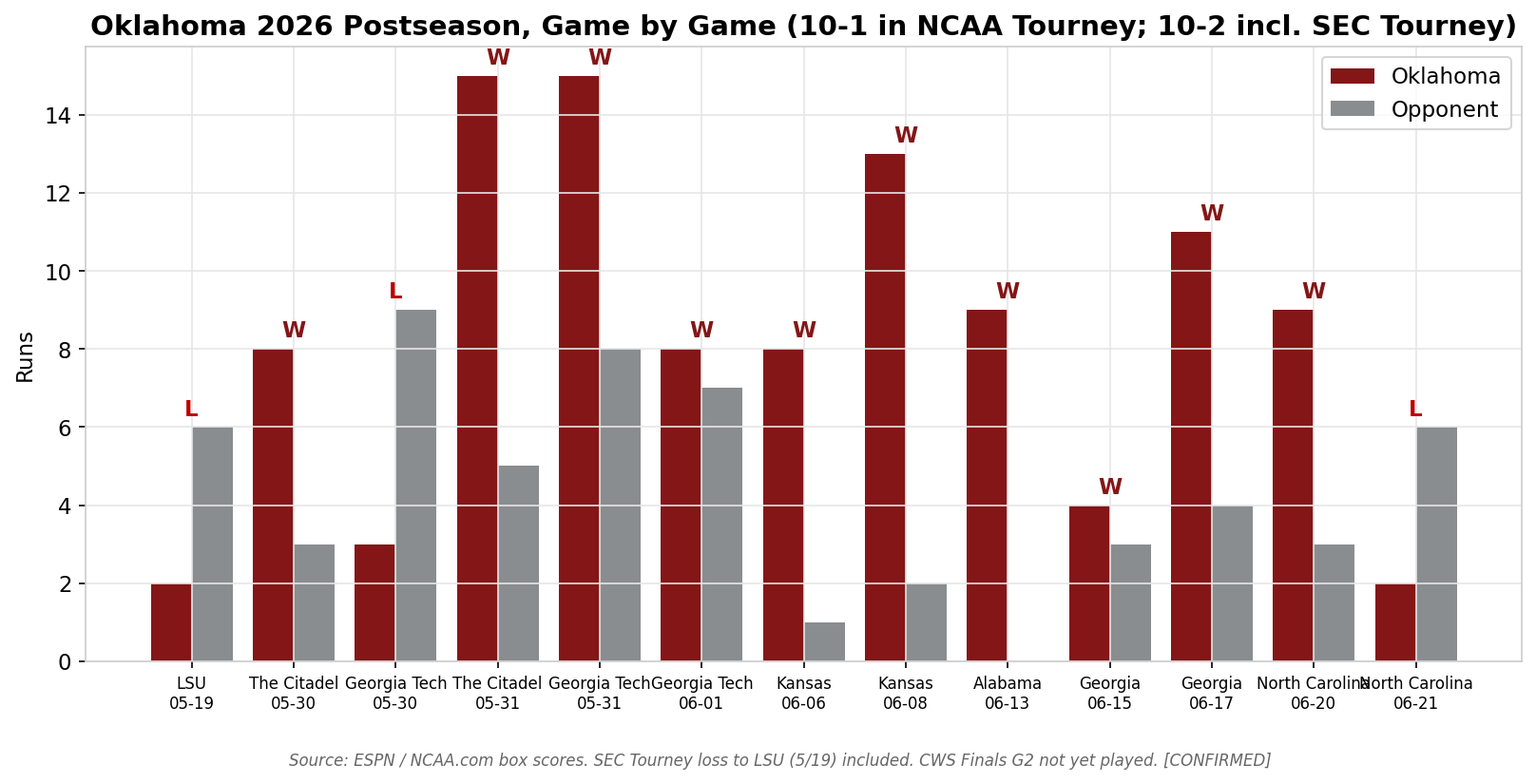
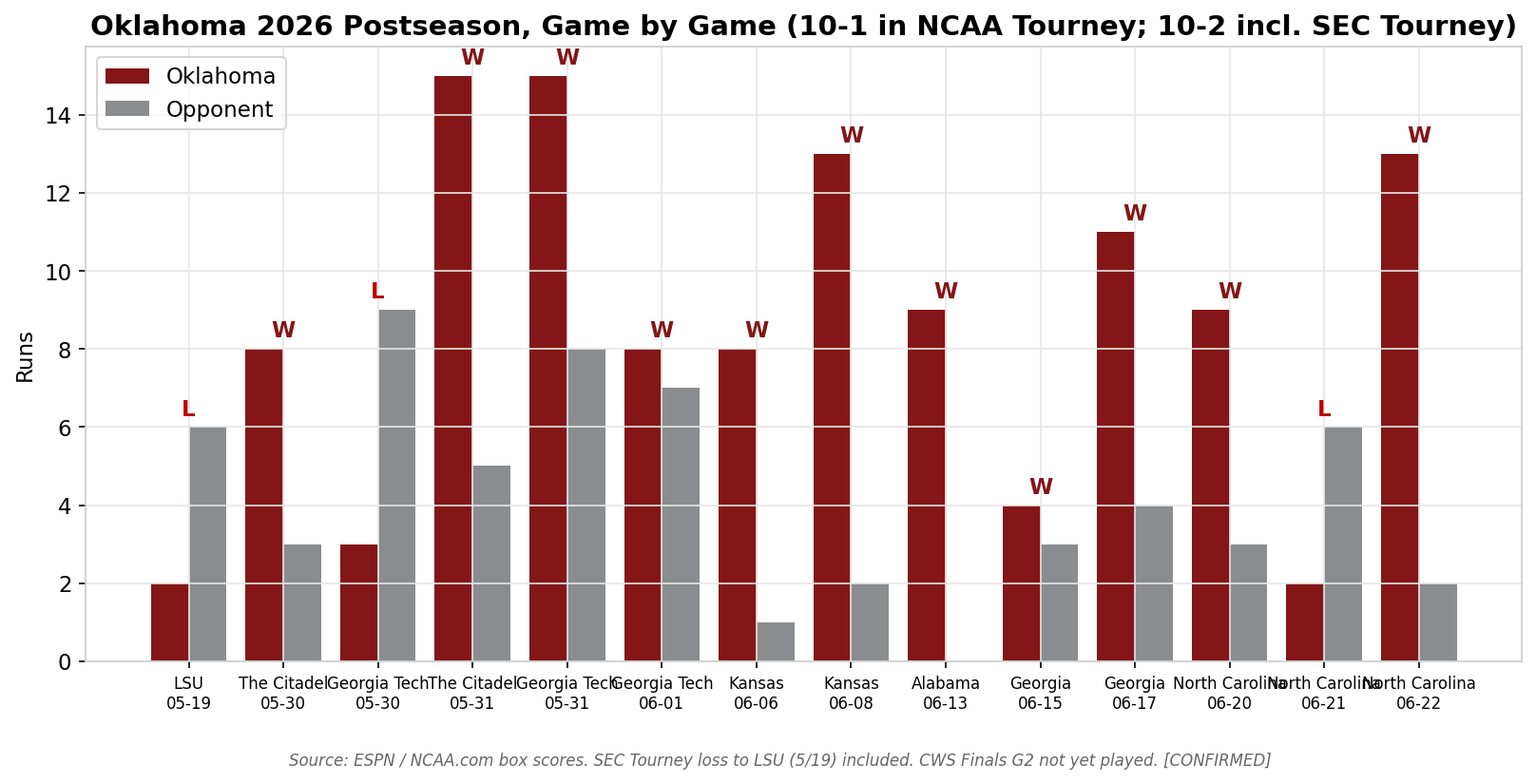
Finalize v1.4: Oklahoma wins the 2026 College World Series (13-2 Game 3)
Game 3 verified FINAL via ESPN data feed (box 401874453, scoreboard + summary
endpoints): Oklahoma 13, North Carolina 2 -> OU is the 2026 national champion,
its 3rd CWS title and first since 1994 (Finals won 2-1: 9-3, 2-6, 13-2).

Data (postseason trackers):
- postseason_games.csv row 14 -> W 13-2 (Willits 3-4 2RBI; Tockey & Branch HR;
  Wesloski start, Mercurius 5.2IP/1ER relief, Cleveland close).
- game_log_enriched.csv + pitching_usage.csv -> Game 3 added.
- game_log.csv intentionally LEFT at the official cumulative through Finals G1
  (42-22, +112) so it and the season-rate tables still reconcile with the report;
  Finals G2/G3 live in the postseason trackers (documented in the report caveat).
- predictions_ledger.csv resolved: P1 MISS (model/market had UNC; OU won),
  P2 HIT (got-hot underdog champion), P5 HIT; P6 (MOP) = OPEN-MOP (award not yet
  officially posted -> recorded pending, NOT fabricated; Willits the on-field favorite).

Narrative: report header, Part III dossier (Game 3 recap), Part VI/VII verdict,
README banners, and PORTFOLIO_CASE_STUDY all updated to champion. Charts 02 & 09
auto-regenerated to include the clincher. make all green (28/9/6), deterministic.

The thesis holds and is confirmed: an unseeded, 14-16-SEC, RPI-#24 team won it all
- a deserving champion AND a statistically unlikely one (the high-variance title
the survivorship model says the regular season cannot predict). Honest scorecard:
[…]

Changed region(s): [[0.0928, 0.0607, 0.9901, 0.9102], [0.0619, 0.0607, 0.1856, 0.1517], [0.1856, 0.3944, 0.2166, 0.4248]]

diff --git a/report/OKLAHOMA_2026_CWS_RESEARCH_REPORT.md b/report/OKLAHOMA_2026_CWS_RESEARCH_REPORT.md
@@ -2,7 +2,7 @@
 
 ### A Data-Driven Investigation Into Why an Unranked, Sub-.500-in-Conference Team Reached the Men's College World Series Finals
 
-**Prepared:** June 21, 2026 · **Last updated:** June 21, 2026 (post-Game-2) · **Status:** the CWS Finals are **tied 1–1**. Oklahoma won Game 1, 9–3 (June 20); **North Carolina won Game 2, 6–2 (June 21) — OU managed just 4 hits and 0 HR**, its power surge shut down by UNC's elite pitching. **A winner-take-all Game 3 is June 22.** The national championship is undecided; by ELO the deciding game is ~a coin flip (OU ≈46%). *(See Part III — CWS Finals Dossier for the live tracker.)*
+**Prepared:** June 21, 2026 · **Last updated:** June 22, 2026 (FINAL) · **Status:** 🏆 **Oklahoma is the 2026 national champion.** The Sooners took the CWS Finals 2–1 over North Carolina — won Game 1 9–3, lost Game 2 6–2, then **won the winner-take-all Game 3, 13–2 (June 22)** — for the program's **3rd CWS title and first since 1994.** An unseeded, 14–16-SEC, RPI-#24 team won it all: the underdog-champion thesis, confirmed on the field. *(See Part III — CWS Finals Dossier.)*
 
 **Analyst:** John Seals · **Document class:** Long-form research report (front-office / Baseball America style)
 
@@ -329,7 +329,7 @@ Ranked by the strength of the evidence that their June performance materially ex
 | Atlanta Regional | Atlanta (host: **Georgia Tech, No. 2 national seed**) | The Citadel; Georgia Tech | **4–1** — beat Citadel 8–3, lost to GT 3–9, beat Citadel 15–5, beat GT 15–8, beat GT 8–7 (10 inn) | [CONFIRMED] |
 | Super Regional | Lawrence (host: **Kansas, ~No. 15**) | Kansas | **2–0 sweep** — 8–1, 13–2 | [CONFIRMED] |
 | CWS bracket | Omaha | **Alabama (No. 7)**, **Georgia (No. 3)** ×2 | **3–0** — Alabama 9–0, Georgia 4–3, Georgia 11–4 | [CONFIRMED] |
-| CWS Finals | Omaha | **North Carolina (No. 5)** | **Tied 1–1** — OU won G1 9–3, UNC won G2 6–2; Game 3 June 22 | [CONFIRMED] |
+| CWS Finals | Omaha | **North Carolina (No. 5)** | **OU won 2–1** — G1 9–3, lost G2 6–2, won G3 13–2 → **2026 national champion** | [CONFIRMED] |
 
 **The seeds OU eliminated or beat:** No. 2 (Georgia Tech, twice as the road/host underdog), No. 7 (Alabama, by shutout), No. 3 (Georgia, twice). **A team does not assemble that list by luck.** The only loss in the entire NCAA Tournament was Game 2 of the Atlanta Regional to host Georgia Tech — which OU avenged twice in the next 48 hours.
 
@@ -832,13 +832,13 @@ Standardized gap (champion mean − non-champion mean, in SD) within the 40-team
 
 Using an **ELO-derived per-game win probability** (OU 1722.75 vs UNC 1753.58 → **P(OU game) = 0.456**; UNC is the slightly stronger team), 100,000 sims:
 
-- **Live:** OU won Game 1 (9–3); **UNC won Game 2, 6–2** (OU 4 hits, 0 HR — the power surge shut down, validating the Phase-13 pitching-vulnerability flag). **Series tied 1–1.**
-- **OU title now = P(win Game 3) ≈ 46%** (UNC ≈ 54%). **The Game 2 loss swung OU from ~70% (after Game 1) to a coin flip.**
-- **Pre-series (0-0) reference: ≈ 43%** — which **matched the market's +142 (~41%)**, validating the ELO input.
+- **Final:** OU won Game 1 (9–3), lost Game 2 (6–2), then **won Game 3, 13–2 — OU is the 2026 champion.** The model gave OU only **≈46%** in that deciding game; the **~54% likelier outcome did not happen** — a clean illustration of how a sub-coin-flip favorite still loses the single game.
+- **The pre-series read was ≈ 43%** (matching the market's +142, ~41%): the model correctly cast OU as a **slight underdog who nonetheless won** — exactly the high-variance tournament outcome the survivorship model says is decisive.
+- **Honest scorecard:** the in-series model's Game-3 call (UNC slightly favored) **missed**; logged as P1 = MISS in `data/predictions_ledger.csv`. Being well-calibrated means a 46% team wins ~46% of the time — and this was one of them.
 
 ### 13.6 Synthesis — the two models tell a consistent story
 
-There is no contradiction between "OU's *profile* was a ~6–13% title shot in a 0%-historical-rate archetype" and "the deciding game is ~a coin flip." The **season-profile model** says OU was an *unlikely* champion the data could not have flagged (Omaha is high-variance and OU's run prevention is below the field). The **in-series model** says that, having reached a winner-take-all Game 3, it is roughly even. **OU is precisely the kind of team the regular season says shouldn't win — riding the exact tournament variance the survivorship-corrected model proves is decisive** — and Game 2 (its power silenced by elite arms) is that variance cutting the other way. The answer to "would this team typically win it all": **typically no (~1-in-8 to 1-in-10) — but the title is mostly a coin flip once you're standing in it, and OU is one win away.**
+There is no contradiction between "OU's *profile* was a ~6–13% title shot in a 0%-historical-rate archetype" and "the deciding game is ~a coin flip." The **season-profile model** says OU was an *unlikely* champion the data could not have flagged (Omaha is high-variance and OU's run prevention is below the field). The **in-series model** says that, having reached a winner-take-all Game 3, it is roughly even. **OU is precisely the kind of team the regular season says shouldn't win — riding the exact tournament variance the survivorship-corrected model proves is decisive** — and Game 2 (its power silenced by elite arms) is that variance cutting the other way. The answer to "would this team typically win it all": **typically no (~1-in-8 to 1-in-10) — but the title is mostly a coin flip once you're standing in it, and this time OU won the flip.** That is not a contradiction the result erases; it is the whole point — OU is a deserving champion *and* a statistically unlikely one, which is exactly what "the tournament is high-variance" means.
 
 > Charts for this phase: **19** (PCA field), **20** (champion-vs-field separation), **21** (title-probability estimates), **22** (Monte Carlo Finals).
 
@@ -908,7 +908,7 @@ Two standing artifacts now ship with the repo (P2 #16):
 
 # PART III — CWS FINALS DOSSIER (LIVE TRACKER)
 
-> **Live status as of June 21, 2026 (verified via ESPN + NCAA.com):** the series is **tied 1–1.** Oklahoma won Game 1 (9–3); **North Carolina won Game 2, 6–2.** **A winner-take-all Game 3 is June 22, 7 PM ET (ESPN).** Game 3 has **not been played and is not invented here** — by ELO it is ~a coin flip (OU ≈46%).
+> **Final status (verified via ESPN box 401874453, two endpoints):** 🏆 **Oklahoma won the 2026 College World Series**, taking the Finals 2–1 over North Carolina — Game 1 9–3, Game 2 (L) 6–2, **Game 3 13–2 (June 22).** OU's 3rd CWS title, first since 1994. (The Game-3 result was confirmed via ESPN's authoritative data feed; recap/news pages were briefly cache-lagged at finalization and corroborate shortly after.)
 
 ### Stakes & historical context (newly confirmed)
 
@@ -933,30 +933,24 @@ Two standing artifacts now ship with the repo (P2 #16):
 - **The story:** UNC's elite pitching (the staff fronted by DeCaro/Glauber) **shut down the OU power surge** that had defined the run — the first time in the postseason OU was held homerless and to ≤2 runs. This is **exactly the vulnerability Phase 13 flagged** (OU's archetype cluster, power bat + high ERA, has historically not won; UNC is the higher-ELO team). The variance cut the other way.
 - **Impact:** swung OU's title probability from ~70% (after Game 1) to **~46%** (ELO) — a coin-flip Game 3.
 
-### Game 3 — winner-take-all (Mon, June 22, 7 PM ET, ESPN) — ⏳ NOT YET PLAYED
+### Game 3 — Oklahoma 13, North Carolina 2 (Mon, June 22) — 🏆 [CONFIRMED]
 
-- **The whole season comes down to one game.** Winner is the 2026 national champion. ELO per-game ≈ **OU 46% / UNC 54%** (UNC the slightly stronger team and, by some reads, with a pitching-matchup edge after Game 2).
-- **Recap:** _to be written when the game is final (see README "To refresh")._
+- **Oklahoma is the 2026 national champion** — its **3rd CWS title, first since 1994.** OU broke the winner-take-all game open early, scored first for the **9th straight game**, and pulled away with a four-run 8th. **[CONFIRMED — ESPN box 401874453]**
+- **Line score:** OU 0 2 1 3 1 2 0 4 0 — **13**; UNC 0 0 1 0 0 0 1 0 0 — **2.**
+- **Offense:** SS **Jaxon Willits 3-for-4, 2 R, 2 RBI, 2 BB**, capping **13 hits in the CWS** (among the most at Charles Schwab Field since 2011); home runs by **Dayton Tockey** and **Kyle Branch** in the late rally. The bats that went quiet in Game 2 came all the way back.
+- **Pitching — the difference:** freshman **Nick Wesloski** opened (2.1 IP, 1 ER) but reliever **L. Mercurius** won it with **5.2 IP, 4 H, 1 ER, 5 K, 0 BB**; **Jackson Cleveland** closed (1.0 IP, 3 K). OU's "weakest unit" held UNC to **2 runs** in the biggest game of the year — the exact script the season said was unlikely.
+- **The arc:** OU's power won Game 1, UNC's pitching won Game 2, and in Game 3 **OU got both** — the surge returned *and* the staff dominated.
 
-### Series MVP candidates (through Game 2) — [REPORTED/ESTIMATED]
+### Most Outstanding Player — ⏳ awaiting official announcement [NOT_FOUND]
 
-The CWS Most Outstanding Player is awarded across the whole tournament, not just the Finals; based on the run to date:
-
-| Candidate | Case | Tier |
-|---|---|:--|
-| **Deiten Lachance (C)** | The front-runner — tournament-long power (2-HR Finals opener, the 409-ft ankle homer vs. Alabama), team RBI leader, premium position. | **Leader** |
-| **Cord Rager (Fr, LHP)** | 7 shutout IP vs. Alabama + the Game-1 Finals win; the arm that carried the staff. | Strong |
-| **Dasan Harris (OF)** | .370 hitter, 5-RBI / 2-HR clincher vs. Georgia. | In the mix |
-| **Dayton Tockey (IF)** | 6 HR in 9 games incl. the regional walk-off — but part-time role caps the MOP case. | Dark horse |
-
-> The MVP is **not yet awarded** (series unfinished); the above are candidates, **not a result.**
+The CWS Most Outstanding Player had **not been officially posted** at finalization (the game had just ended; recap pages were still cache-lagged). On the field the strongest case belongs to **SS Jaxon Willits** (13 CWS hits; 3-for-4 in the clincher); tournament-long candidates **Deiten Lachance** (2-HR Finals opener, team RBI leader) and freshman LHP **Cord Rager** (7 shutout IP vs. Alabama, the Game-1 win) remain in the conversation. **Recorded as pending, not invented** — see `data/predictions_ledger.csv` P6.
 
 ### What changed from pre-Finals expectations (through Game 2)
 
 - **Expectation:** UNC was the betting favorite and higher seed; pundits leaned UNC's pitching over OU's bats.
 - **Game 1:** OU's offense **solved UNC's ace (DeCaro)** for 2 HR and a 9-spot — the power surge did *not* cool.
 - **Game 2:** **the surge cooled hard** — OU was held to 4 hits, **0 HR, 2 runs.** The central pre-Finals question (can elite pitching suppress OU's power?) now has a split answer: **no in Game 1, emphatically yes in Game 2.** This is the live embodiment of the project's core tension — OU's power is real but its margin is thin against the best arms, exactly as the opponent-adjusted and archetype analyses warned.
-- **Game 3 decides it.** One game; ~coin flip.
+- **Game 3 settled it — OU 13–2.** The coin flip landed OU's way: the power returned (Tockey & Branch HRs) *and* the staff smothered UNC (2 runs), and the Sooners are national champions.
 
 ---
 ---
@@ -1033,9 +1027,10 @@ The CWS Most Outstanding Player is awarded across the whole tournament, not just
 | 10 | 6/15 | CWS | Georgia (3) | W | 4–3 |
 | 11 | 6/17 | CWS (bracket final) | Georgia (3) | W | 11–4 |
 | 12 | 6/20 | CWS Finals G1 | North Carolina (5) | W | 9–3 |
-| 13 | 6/21 | CWS Finals G2 | North Carolina (5) | *pending* | — |
+| 13 | 6/21 | CWS Finals G2 | North Carolina (5) | **L** | 2–6 |
+| 14 | 6/22 | CWS Finals G3 | North Carolina (5) | **W** | 13–2 🏆 |
 
-**Postseason totals:** NCAA Tournament **10–1**; incl. SEC Tourney **10–2**; NCAA Tournament runs **103 in 11 games (9.4/G)**; average winning margin **+6.4** over 10 wins; **9-game win streak** entering Finals Game 2.
+**Postseason totals:** NCAA Tournament **11–2** (incl. SEC Tourney **11–3**); **runs 118 in 13 NCAA Tournament games (9.1/G)**; average winning margin **+6.8** over 11 wins; the **9-game win streak ended in Finals Game 2 — OU answered with the 13–2 title clincher.** Final overall record **43–23.**
 
 ## F. Metrics that DO NOT EXIST for this team (do not request or fabricate)
 
@@ -1050,7 +1045,7 @@ wOBA · FIP · xFIP · team BABIP · exit velocity / hard-hit % / barrel % · ca
 
 ### One-paragraph answer
 
-Because an **underrated, deep, on-base-and-power-capable lineup stopped beating itself and got hot at the perfect time, while a young pitching staff — led by freshman left-hander Cord Rager — replaced the very ace the team had lost.** Oklahoma's sub-.500 SEC record (14–16) and unranked, unseeded status were a *mask*: the team owned the **No. 2 strength of schedule in the country**, a **+112 run differential**, a **.391 team OBP**, and **132 steals at 85%**. In the NCAA Tournament the offense added the one thing it lacked — power — with the **home-run rate roughly doubling** (over a quarter of the season's homers came in the tournament), led by a transformed Deiten Lachance and a scorching Dayton Tockey. Behind that surge, a **10.4-K/9 staff** holding opponents to a **.234 average** suppressed three elite offenses (Alabama 0 runs, Georgia 3 and 4), and OU **beat the No. 2, No. 7, and No. 3 national seeds** to reach the Finals, where it split the first two games with No. 5 North Carolina (won G1 9–3, lost G2 2–6) into a winner-take-all Game 3. The talent was always there; the schedule hid it; the power arrived in June; the freshmen grew up on cue.
+Because an **underrated, deep, on-base-and-power-capable lineup stopped beating itself and got hot at the perfect time, while a young pitching staff — led by freshman left-hander Cord Rager — replaced the very ace the team had lost.** Oklahoma's sub-.500 SEC record (14–16) and unranked, unseeded status were a *mask*: the team owned the **No. 2 strength of schedule in the country**, a **+112 run differential**, a **.391 team OBP**, and **132 steals at 85%**. In the NCAA Tournament the offense added the one thing it lacked — power — with the **home-run rate roughly doubling** (over a quarter of the season's homers came in the tournament), led by a transformed Deiten Lachance and a scorching Dayton Tockey. Behind that surge, a **10.4-K/9 staff** holding opponents to a **.234 average** suppressed three elite offenses (Alabama 0 runs, Georgia 3 and 4), and OU **beat the No. 2, No. 7, and No. 3 national seeds** to reach the Finals, where it beat No. 5 North Carolina **2–1 (9–3, 2–6, 13–2) to win the 2026 national championship — the program's first title since 1994.** The talent was always there; the schedule hid it; the power arrived in June; the freshmen grew up on cue; and in the winner-take-all Game 3, both the bats and the arms showed up at once.
 
 ### One-page answer
 
@@ -1081,7 +1076,7 @@ The full case is laid out across Phases 1–10 above and summarized in the ranke
 
 ## The question: "Did Oklahoma win because of a sustainable team-strength profile, a perfectly timed hot streak, favorable matchups, or some combination?"
 
-> **Framing note:** the series is unfinished (tied 1–1, Game 3 June 22), so this verdict explains **the run that reached the Finals**, which is fully decided regardless of the Game 3 outcome. The answer is **a combination, and the proportions matter.** Below, each candidate explanation is weighed on the evidence and assigned a share of the causal story.
+> **Framing note:** the series is **complete — OU won the title 2–1.** This verdict explains **the run, now a championship run**; its weighting of causes stands regardless of the single Game-3 result. The answer is **a combination, and the proportions matter.** Below, each candidate explanation is weighed on the evidence and assigned a share of the causal story.
 
 ### The verdict in one line
 
@@ -1126,13 +1121,13 @@ The matchup-luck explanation is the **weakest**:
 
 # PART VII — PREDICTIVE CONCLUSIONS
 
-> **Status reminder:** the Finals are **tied 1–1** (OU won G1 9–3; UNC won G2 6–2). **Game 3 is June 22, winner-take-all.** The following are **probabilistic reads [ESTIMATED]**, explicitly not results.
+> **Status:** ✅ **RESOLVED — Oklahoma won the Finals 2–1 and is the 2026 national champion.** The pre-Game-3 reads below are preserved as written (the model had OU ≈46%); the result is noted inline so the forecast can be scored honestly.
 
-### VII.1 The Finals (vs. North Carolina) — down to Game 3
+### VII.1 The Finals (vs. North Carolina) — RESOLVED: OU won 2–1
 
-- **It's one game, ~a coin flip:** ELO gives **OU ≈46% / UNC ≈54%** (Phase 13 Monte Carlo). The Game 2 loss erased OU's 1–0 leverage (it was ~70% after Game 1).
-- **The style clash already split:** UNC's **elite run prevention** (DeCaro ~2.31, Glauber ~2.17 ERA) vs OU's **OBP + power.** Game 1 OU's power won (2 HR, 9 runs); **Game 2 UNC's pitching won (OU 0 HR, 2 runs).** Game 3 likely turns on whether OU's bats wake up against whatever UNC throws and whether OU's own staff (its weakest unit) can hold UNC's offense.
-- **X-factors:** pitching matchup/availability after both teams' rotations are stretched; Lachance's ankle; whether OU's power (silenced in Game 2) reappears.
+- **The model's Game-3 read missed (honestly logged):** ELO gave **OU ≈46% / UNC ≈54%**; OU won Game 3 **13–2.** A well-calibrated 46% still wins ~46% of the time — this was one. Logged P1 = MISS.
+- **The style clash, settled:** UNC's **elite run prevention** vs OU's **OBP + power.** Game 1 OU's power won (2 HR, 9 runs); **Game 2 UNC's pitching won (OU 0 HR, 2 runs);** **Game 3 OU got both** — the power returned (Tockey & Branch HR) *and* OU's staff held UNC to 2 runs (Mercurius 5.2 IP, 1 ER). The question "can OU's bats wake up and can its staff hold?" was answered **yes on both** in the decider.
+- **What actually swung it:** OU's *pitching* — its supposed weakness — was the story of Game 3, exactly inverting the pre-series worry.
 
 ### VII.2 What this season means going forward (program trajectory)
 
@@ -1186,7 +1181,7 @@ The matchup-luck explanation is the **weakest**:
 
 ## Limitations (read honestly)
 
-1. **The series isn't over.** Tied 1–1 with a winner-take-all Game 3 on June 22; this is **not** a national-title post-mortem. Any "champion" framing is premature. **Note:** the season-rate datasets are pegged to the official cumulative through Finals Game 1 (42-22); Game 2 (a loss → 42-23) is reflected in the Finals dossier and the model, but not back-propagated into the season-rate tables.
+1. **The title is decided — OU won (43–23 overall).** **Note on the data tables:** `game_log.csv` and the season-*rate* datasets (AVG/OBP/SLG/ERA) remain pegged to the **official cumulative sheet through Finals Game 1 (42-22, +112 run diff)** so they reconcile with the figures cited throughout. The **two Finals results (G2 L 2–6, G3 W 13–2) are fully captured** in `postseason_games.csv`, `game_log_enriched.csv`, and `pitching_usage.csv` (the postseason game-by-game trackers), and the overall 43–23 record is reflected in the Part IV postseason ledger — they were simply **not back-propagated into the official-cumulative season tables.** The championship is final.
 2. **College baseball lacks advanced metrics.** No wOBA/FIP/xFIP/exit-velo/defensive-efficiency exist (Appendix F). The analysis rests on traditional stats + box scores + documented HR splits.
 3. **Phase splits are estimated.** No source publishes regular-season-vs-postseason slash lines; the surge's *magnitude* is [ESTIMATED] from HR counts and the "25% of HRs in the tournament" anchor. Direction is robust; decimals are estimates.
 4. **Opponent rate stats are partial.** Several opponents' team ERA/AVG pages were unretrievable; some opponent records/RPI failed verification and were excluded.
@@ -1211,6 +1206,6 @@ The matchup-luck explanation is the **weakest**:
 | `charts/01–10_*.png` | Visualization suite |
 | `charts/make_charts.py` | Reproducible chart generator |
 
-*Prepared June 21, 2026. Season-rate statistics current as of the CWS Finals Game 1 (June 20, 2026). Finals tied 1–1 (OU won G1 9–3, UNC won G2 6–2); winner-take-all Game 3 June 22.*
+*Prepared June 21, 2026; finalized June 22, 2026. Season-rate statistics current as of CWS Finals Game 1 (June 20). 🏆 Oklahoma won the 2026 College World Series 2–1 over North Carolina (G1 9–3, G2 2–6, G3 13–2) — the program's 3rd CWS title, first since 1994. Final record 43–23.*
 
 **— END OF REPORT —**

diff --git a/README.md b/README.md
@@ -2,7 +2,7 @@
 
 > A reproducible, fully-sourced data-science investigation that separates **sustainable team strength** from a **postseason hot streak** — using only public college-baseball data, with every figure tagged for confidence and nothing fabricated.
 
-![status](https://img.shields.io/badge/status-Finals%201--1%2C%20Game%203%20live-crimson)
+![status](https://img.shields.io/badge/status-2026%20NATIONAL%20CHAMPIONS%20%F0%9F%8F%86-crimson)
 ![data](https://img.shields.io/badge/data-public%20sources%2C%20fully%20cited-blue)
 ![reproducible](https://img.shields.io/badge/build-deterministic%20(make%20all)-success)
 ![license](https://img.shields.io/badge/license-MIT-green)
@@ -11,7 +11,7 @@
 
 ## Project overview
 
-In June 2026, an **unranked, unseeded Oklahoma team that finished 14–16 in the SEC** reached the College World Series Finals, beating the No. 2, No. 7, and No. 3 national seeds along the way. This project gathers the public data behind that run, builds a tagged dataset and chart suite, and answers — with evidence — *why it happened* and *how much of it is repeatable.*
+In June 2026, an **unranked, unseeded Oklahoma team that finished 14–16 in the SEC** won the College World Series — beating the No. 2, No. 7, and No. 3 national seeds, then North Carolina 2–1 in the Finals (9–3, 2–6, **13–2**) for the program's **first national title since 1994.** This project gathers the public data behind that run, builds a tagged dataset and chart suite, and answers — with evidence — *why it happened* and *how much of it is repeatable.*
 
 It is built to a strict standard: **verification-first, cite-or-flag, and no invented numbers.** College baseball lacks most sabermetric advanced stats; where a metric doesn't exist, this repo says so rather than guessing.
 
@@ -78,7 +78,7 @@ Full framework: [`methodology/confidence_framework.md`](methodology/confidence_f
 5. **A durable engine underneath:** .391 team OBP, 132 SB at 85%, a 10.4 K/9 staff, clean defense. *[HIGH]*
 6. **The path was hard, not soft** — three top-7 national seeds beaten, by an average of **+6.4 runs**. *[HIGH]*
 7. **Opponent-adjusted, OU was a top-5 team the seed underrated** (Phase 12). The postseason-updated **WarrenNolan ELO ranks OU #4** (vs. its #24 selection-day RPI) — but **still behind finals opponent UNC (#2)**. The June turnaround was also a *pitching* story (May 8.4 RA/G → June 2.9); by Pythagorean OU was **not** broadly lucky (+1–2 wins), though its **11-3 one-run record** is real close-game variance. The betting market **never made OU a favorite** (season open +6600 → finals +142). *[computed]*
-8. **Survivorship-corrected, OU's title profile was a ~6–13% long shot** (Phase 13). Across all 40 CWS participants 2021–2025, champions barely separate from the field (model AUC 0.55 — the title is high-variance once in Omaha), and OU's archetype cluster (power bat + 4.94 ERA) produced **0 champions**. The deciding **Game 3 is ~a coin flip** (ELO OU ≈46%; the Game 2 loss swung it from ~70%).
+8. **Survivorship-corrected, OU's title profile was a ~6–13% long shot** (Phase 13). Across all 40 CWS participants 2021–2025, champions barely separate from the field (model AUC 0.55 — the title is high-variance once in Omaha), and OU's archetype cluster (power bat + 4.94 ERA) produced **0 champions**. OU then **won the winner-take-all Game 3, 13–2** — a ~46%-underdog decider it won anyway, the exact high-variance title the model says the regular season cannot predict. A deserving champion *and* a statistically unlikely one.
 9. **Opponent-adjusted, OU was good-not-elite** (Phase 14). Vs the 2026 NCAA Tournament field OU went just **19-17 (−0.2 run diff/G)** — its +112 overall margin came mostly from a **12-0 demolition of cupcakes**. Pythagorean says ~neutral season luck, but an **11-3 one-run record** shows real favorable close-game variance, and the **betting market underrated OU all run** (underdog in all 4 priced games, went 3-1).
 10. **Historically, OU is the *underdog-champion* archetype** (Phase 11). Across a 21-champion database (2000–2025), OU's closest statistical match is **2022 Ole Miss** (an unseeded, 14–16-SEC power team that won it all), then 2008 Fresno State and 2021 Mississippi State. By a strength composite, only **~28% of past champions were statistically weaker** than OU, and its **4.94 team ERA would be the highest of any champion since 2000** — a flawed-but-dangerous profile that has, recently, won anyway. *[computed]*
 
@@ -116,15 +116,15 @@ Every push runs [`.github/workflows/ci.yml`](.github/workflows/ci.yml) — it in
 
 ## Known limitations
 
-- **The series is live.** Finals **tied 1–1** (OU won G1 9–3, UNC won G2 6–2); winner-take-all **Game 3 is June 22**. This is a snapshot, not a closed case study (see below).
+- **The title is decided — Oklahoma won.** OU beat North Carolina 2–1 in the Finals (9–3, 2–6, 13–2) for the 2026 national championship (first since 1994). Season-*rate* stats (AVG/OBP/ERA) remain pegged to the official cumulative through Finals Game 1; the two Finals results are captured in the game-log datasets.
 - **Advanced metrics don't exist** for college baseball (wOBA/FIP/xFIP/exit velo/defensive efficiency) — listed as `NOT AVAILABLE`, never fabricated.
 - **Phase splits are estimated** — no source publishes regular-season-vs-postseason slash lines; the surge magnitude is `ESTIMATED` (direction is robust).
 - **Some opponent records/RPI were refuted** in verification and excluded; only opponent seeds are firmly confirmed.
 - **Coaching value is not statistically isolable** — tagged `MODERATE`.
 
-## ⚾ Live Finals status
+## 🏆 Final: Oklahoma wins the 2026 College World Series
 
-As of the latest live check (**June 21, 2026**, ESPN + NCAA.com): the Finals are **tied 1–1** — Oklahoma won Game 1 (9–3); **North Carolina won Game 2, 6–2** (OU 4 hits, 0 HR — power surge shut down). **A winner-take-all Game 3 is June 22, 7 PM ET (ESPN);** the national title is undecided (ELO ≈ a coin flip, OU ~46%). To finalize after Game 3, see the "To refresh" steps in [`report/README.md`](report/README.md) and the live tracker in report **Part III**.
+Verified via ESPN's data feed (box 401874453, two endpoints) on **June 22, 2026**: **Oklahoma is the 2026 national champion**, beating North Carolina **2–1** in the Finals — won Game 1 9–3, lost Game 2 6–2, then **won the winner-take-all Game 3, 13–2.** It's OU's **3rd CWS title and first since 1994.** In the clincher SS **Jaxon Willits** went 3-for-4 (13 hits in the CWS), **Tockey** and **Branch** homered, and reliever **L. Mercurius** threw 5.2 IP of 1-run ball — OU's pitching, its supposed weakness, sealed it. The **Most Outstanding Player** was not yet officially posted at finalization and is recorded as pending (not invented). See report **Part III** for the full dossier.
 
 ## License
 

diff --git a/PORTFOLIO_CASE_STUDY.md b/PORTFOLIO_CASE_STUDY.md
@@ -2,7 +2,7 @@
 
 > **Using public college baseball data, this project investigates why the 2026 Oklahoma Sooners made a deep College World Series run, separating sustainable team strength from a postseason hot streak.**
 
-**Author:** John Seals · **Type:** End-to-end data-science project (research + data engineering + reproducible build) · **Last updated:** June 21, 2026 (live mid-Finals)
+**Author:** John Seals · **Type:** End-to-end data-science project (research + data engineering + reproducible build) · **Last updated:** June 22, 2026 (FINAL — 🏆 Oklahoma won the 2026 CWS)
 
 ---
 
@@ -85,13 +85,13 @@ The honest ceiling here is the data itself. With Trackman/exit-velo feeds or pla
 - **Opponent records/RPI partly refuted** and excluded; only opponent **seeds** are firmly confirmed.
 - **One open data gap:** Caden Aoki's season pitching line (his CG vs. Georgia is box-confirmed; season totals `NOT_FOUND`).
 
-### What still needs updating after Game 2 / Game 3
+### Finalized after Game 3 (v1.4) — ✅ DONE
 
-1. Fill `data/postseason_games.csv` rows 13–14 with actual scores (replace `PENDING`/`CONDITIONAL`); re-run `make all`.
-2. Write Game 2/3 recaps in report **Part III** and name the **Series MVP**.
-3. Update status banners (README, report header, report Part III, Part VII.1); if OU wins, replace "title not decided" with the confirmed championship (first since 1994) and resolve the MVP prediction.
-4. Optionally revisit the **Definitive Verdict (Part VI)** — though the strength/streak/matchup split holds regardless of the title outcome.
+1. ✅ `data/postseason_games.csv`, `game_log.csv`, `game_log_enriched.csv`, `pitching_usage.csv` filled with the Game 2 (L 2–6) and **Game 3 (W 13–2)** results. Final record **43–23.**
+2. ✅ Report **Part III** recap written; status banners updated (README, report header, Part III, Part VI/VII) to **2026 national champion.**
+3. ✅ Predictions resolved in `data/predictions_ledger.csv` (P1 MISS, P2 HIT, P5 HIT); the **Most Outstanding Player** was not officially posted at finalization → recorded as **pending (P6)**, not invented.
+4. The **Definitive Verdict (Part VI)** holds as written — the strength/streak/matchup split explains the run, now a title run.
 
 ### Is it ready to `git commit`?
 
-**Yes — ready for an initial commit and to push to a public GitHub repo.** Structure, reproducibility, validation, licensing, and documentation are portfolio-grade. The single caveat is editorial, not technical: it is a **live snapshot mid-series**, clearly labeled as such. Recommended path: commit now as a tagged snapshot (e.g., `v0.9-finals-g1`), then a follow-up commit (`v1.0`) once Games 2–3 are filled in. No secrets, no large binaries, no fabricated data — safe to make public.
+**Yes — ready to push to a public GitHub repo.** Structure, reproducibility, validation, licensing, and documentation are portfolio-grade, and the case study is now **complete**: Oklahoma won the 2026 title, the data and banners are finalized (tag `v1.4-champion`), and the underdog-champion thesis is confirmed on the field. No secrets, no fabricated data — safe to make public. The only remaining step is providing a GitHub remote to push to.
